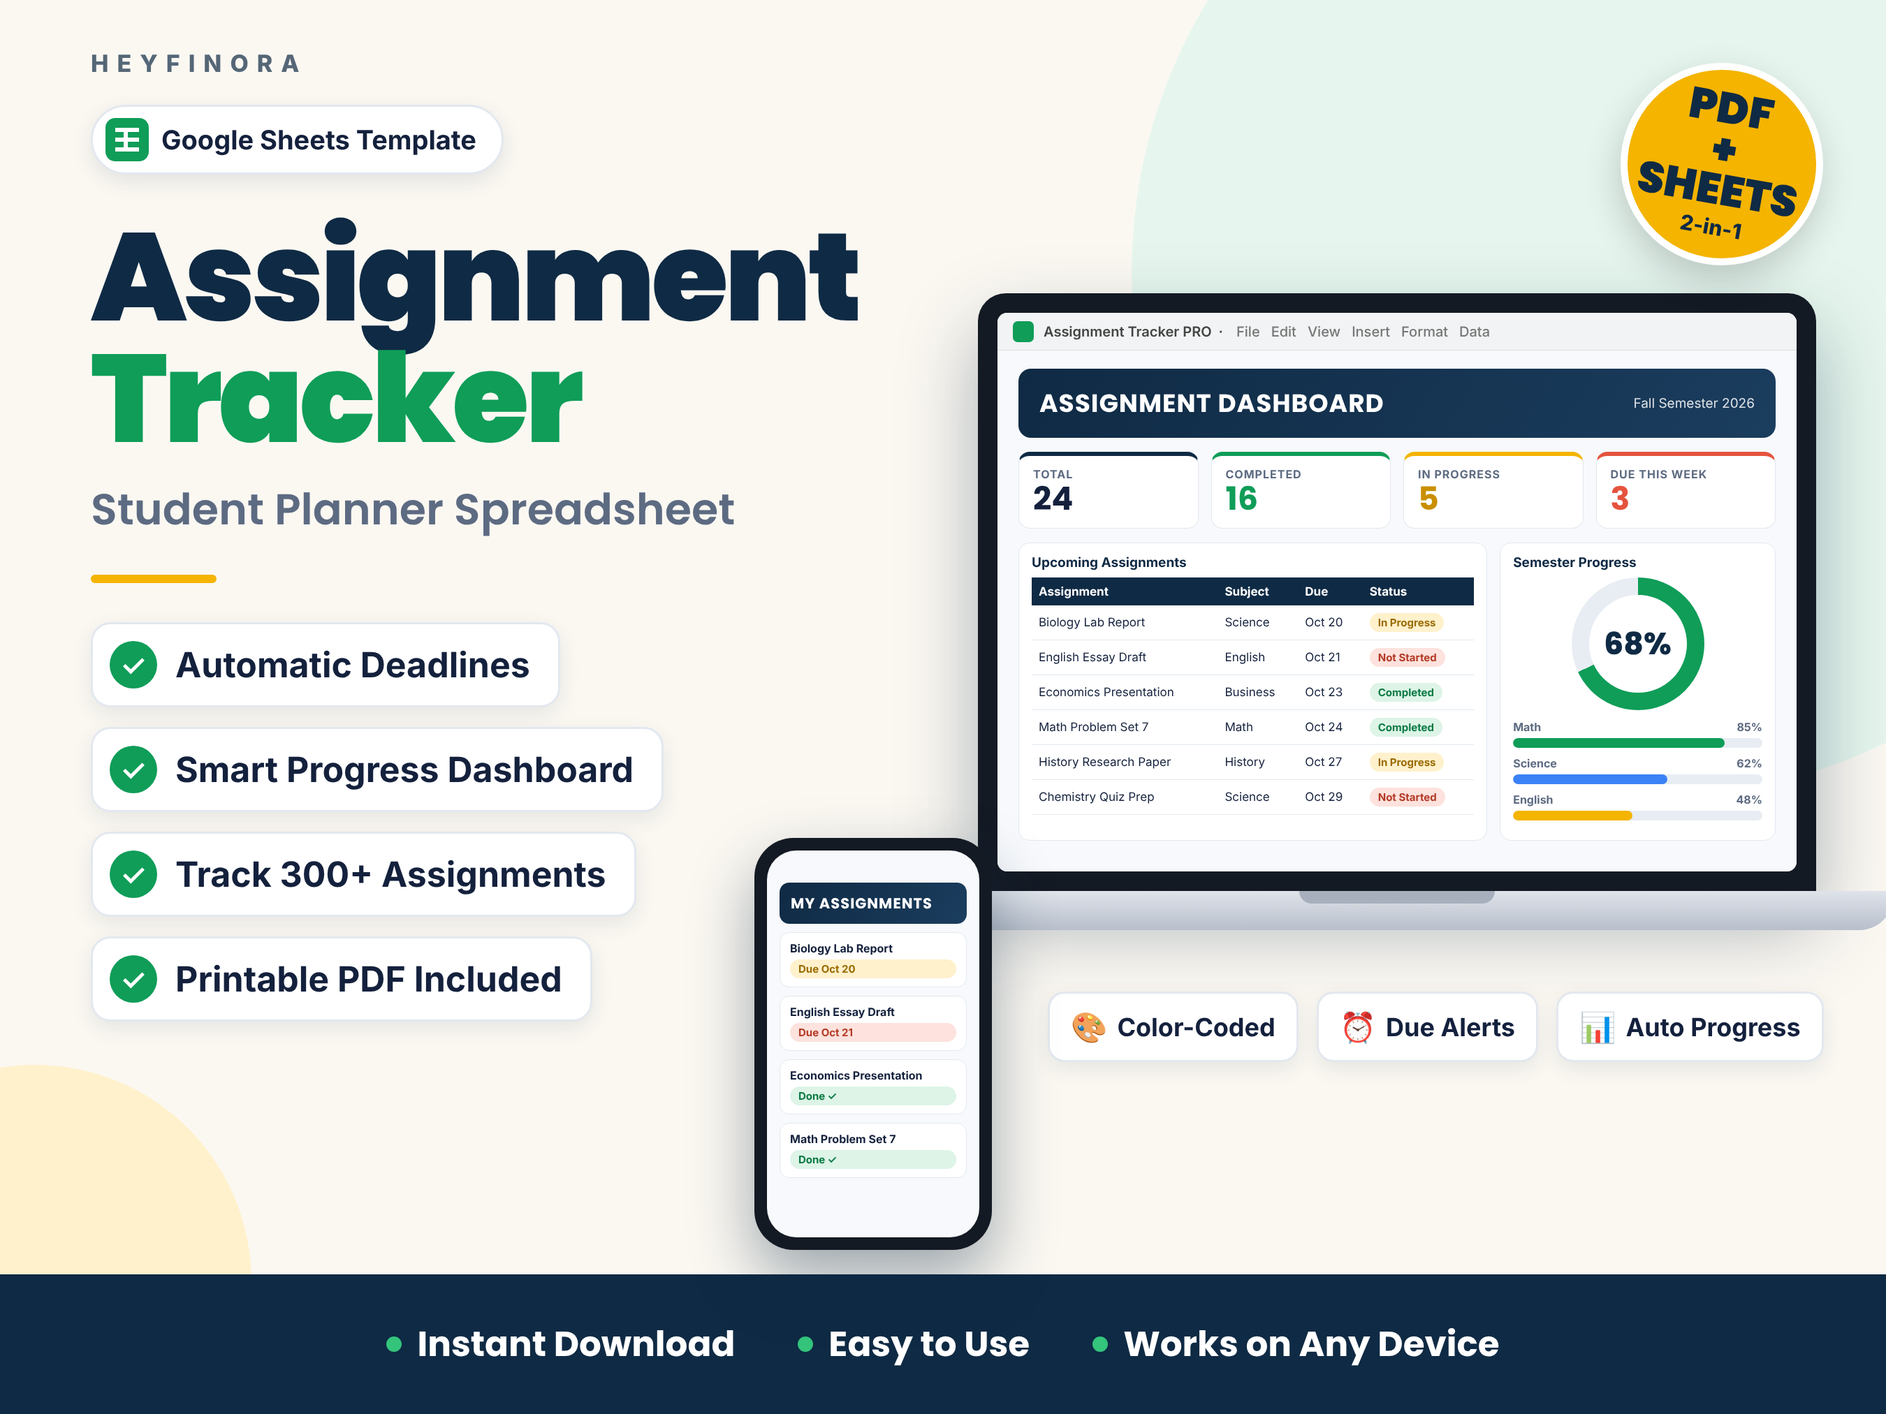
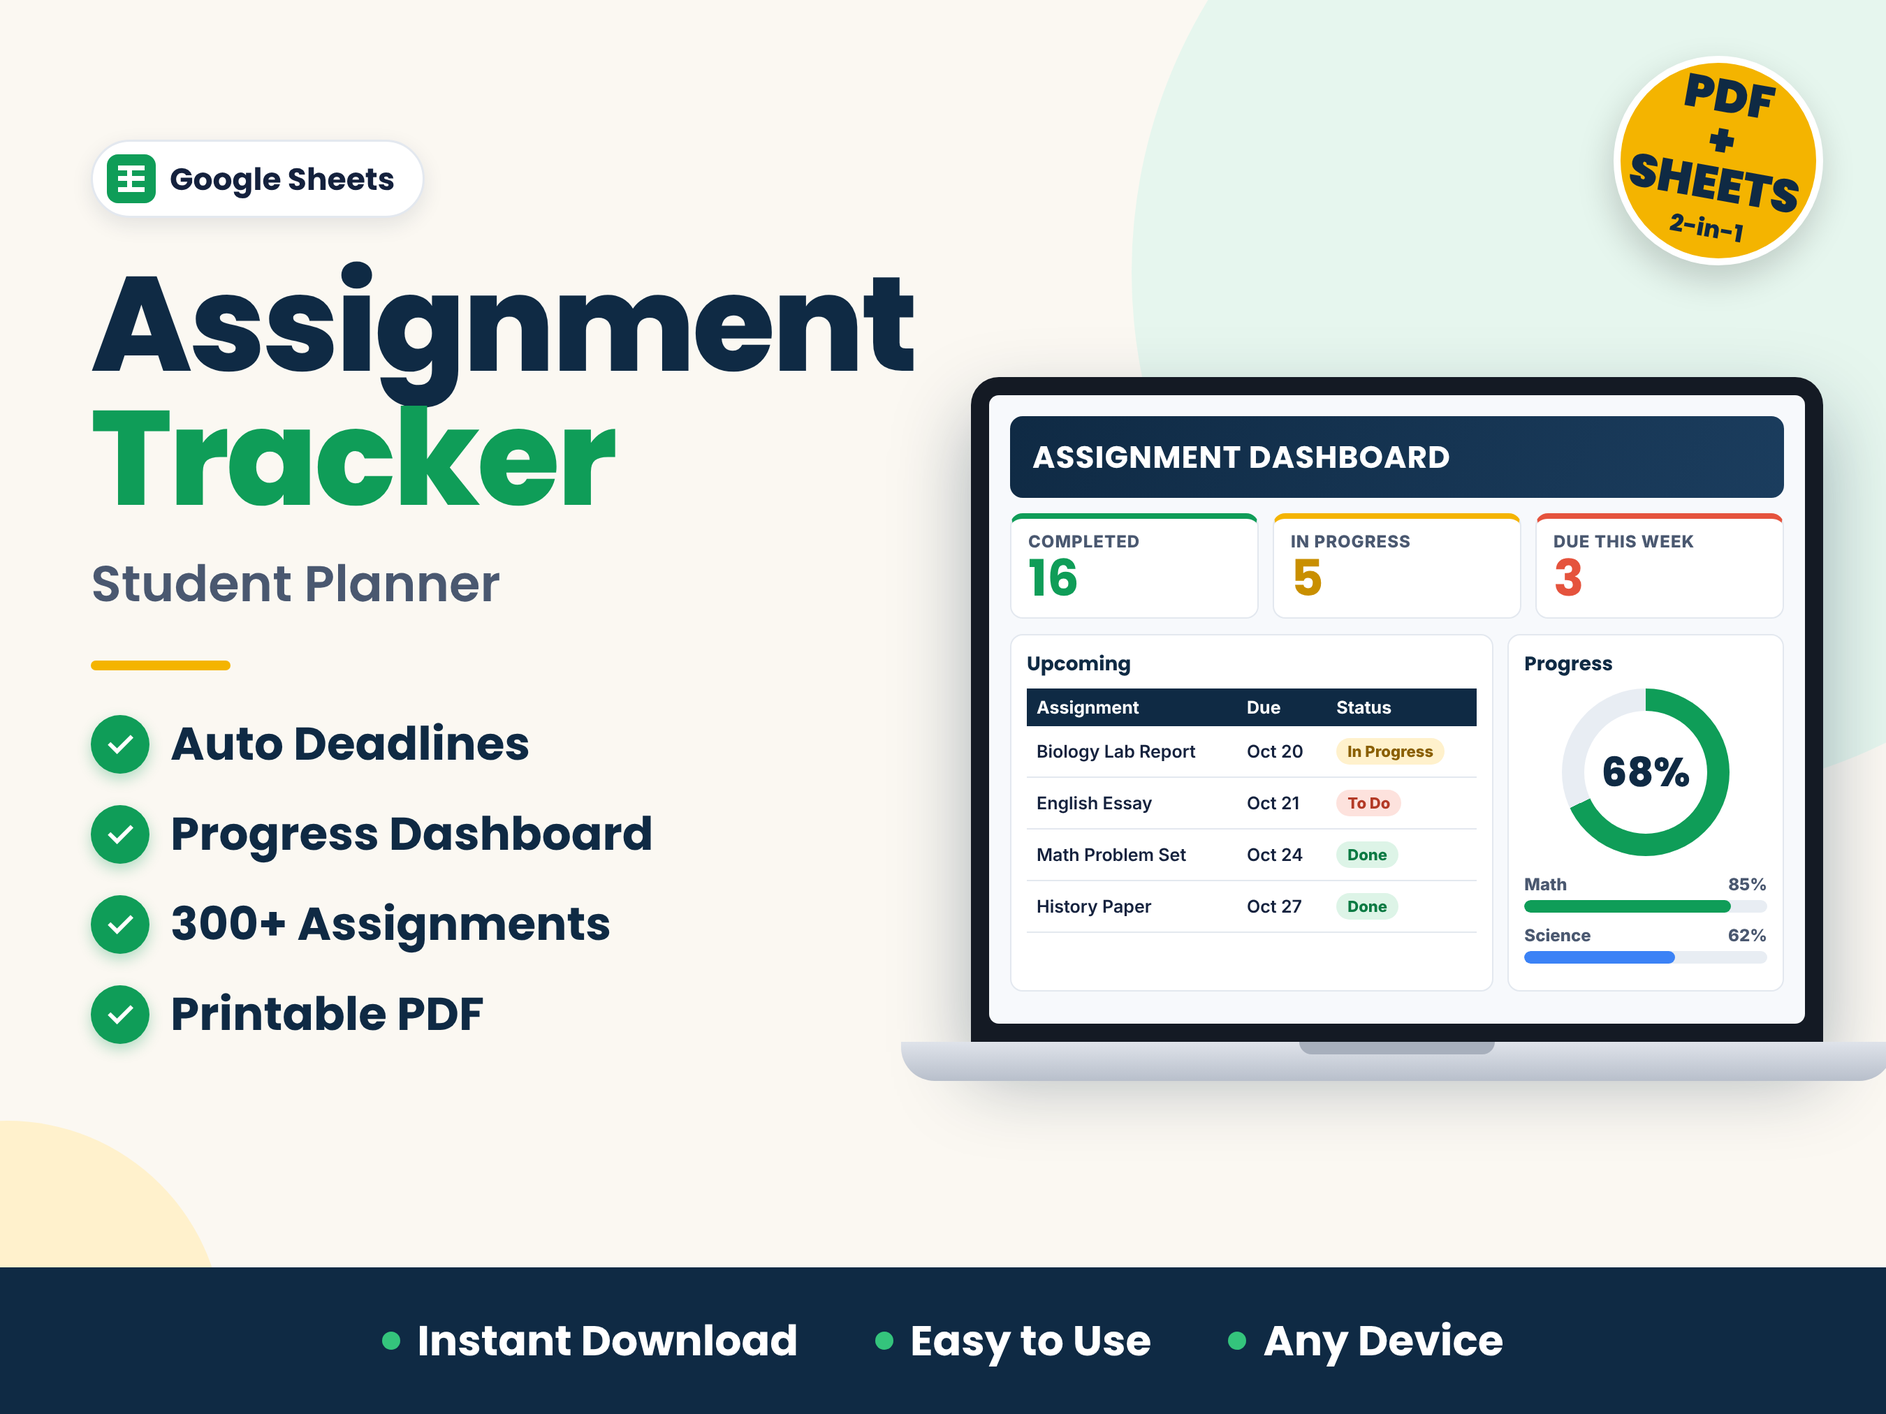
Make Assignment Tracker thumbnail text larger and cleaner
Claude-Session: https://claude.ai/code/session_01JXSyMovszCbL9FMwkaUbGU

Changed region(s): [[0.0, 0.0311, 1.0, 0.9022], [0.2178, 0.9333, 0.8089, 0.9644]]

diff --git a/images/src/assignment-tracker-thumbnail.html b/images/src/assignment-tracker-thumbnail.html
@@ -1,85 +1,67 @@
 <!doctype html>
 <html><head><meta charset="utf-8">
-<link href="https://fonts.googleapis.com/css2?family=Poppins:wght@500;600;700;800;900&family=Inter:wght@400;500;600;700;800&display=swap" rel="stylesheet">
+<link href="https://fonts.googleapis.com/css2?family=Poppins:wght@500;600;700;800;900&family=Inter:wght@500;600;700;800&display=swap" rel="stylesheet">
 <style>
-:root{--navy:#0F2A44;--navy2:#1B3D5E;--green:#0F9D58;--green2:#34C47C;--mint:#E6F6EE;--cream:#FBF8F2;--ink:#14213D;--muted:#5D6B82;--line:#E3E8EF;--gold:#F4B400;--red:#E5533D;--blue:#3B82F6}
+:root{--navy:#0F2A44;--navy2:#1B3D5E;--green:#0F9D58;--green2:#34C47C;--mint:#E6F6EE;--cream:#FBF8F2;--ink:#14213D;--muted:#4A5870;--line:#E3E8EF;--gold:#F4B400;--red:#E5533D;--blue:#3B82F6}
 *{box-sizing:border-box;margin:0;padding:0}
 body{background:#777;font-family:Inter,sans-serif;color:var(--ink)}
 #thumb{width:2700px;height:2025px;position:relative;overflow:hidden;background:var(--cream)}
-.poppins{font-family:Poppins,sans-serif}
 .blob{position:absolute;border-radius:50%}
-/* left */
-.left{position:absolute;left:130px;top:150px;width:1060px}
-.badge{display:inline-flex;align-items:center;gap:18px;background:#fff;border:3px solid var(--line);border-radius:999px;padding:16px 36px 16px 18px;font-size:38px;font-weight:700;box-shadow:0 10px 30px rgba(15,42,68,.10)}
-.sheet-ico{width:62px;height:62px;border-radius:14px;background:var(--green);position:relative}
-.sheet-ico:before{content:"";position:absolute;left:14px;top:14px;width:34px;height:34px;background:
- linear-gradient(#fff,#fff) 0 0/34px 6px no-repeat,linear-gradient(#fff,#fff) 0 14px/34px 6px no-repeat,linear-gradient(#fff,#fff) 0 28px/34px 6px no-repeat,linear-gradient(#fff,#fff) 12px 0/6px 34px no-repeat}
-h1{font-family:Poppins,sans-serif;font-weight:900;font-size:178px;line-height:.98;letter-spacing:-5px;margin-top:60px;color:var(--navy)}
+.left{position:absolute;left:130px;top:200px;width:1200px}
+.badge{display:inline-flex;align-items:center;gap:20px;background:#fff;border:3px solid var(--line);border-radius:999px;padding:18px 40px 18px 20px;font-family:Poppins;font-size:44px;font-weight:700;box-shadow:0 10px 30px rgba(15,42,68,.10)}
+.sheet-ico{width:70px;height:70px;border-radius:16px;background:var(--green);position:relative}
+.sheet-ico:before{content:"";position:absolute;left:16px;top:16px;width:38px;height:38px;background:
+ linear-gradient(#fff,#fff) 0 0/38px 7px no-repeat,linear-gradient(#fff,#fff) 0 15px/38px 7px no-repeat,linear-gradient(#fff,#fff) 0 31px/38px 7px no-repeat,linear-gradient(#fff,#fff) 13px 0/7px 38px no-repeat}
+h1{font-family:Poppins,sans-serif;font-weight:800;font-size:192px;line-height:1;letter-spacing:-4px;margin-top:56px;color:var(--navy)}
 h1 span{color:var(--green)}
-.sub{font-family:Poppins,sans-serif;font-size:62px;font-weight:600;color:var(--muted);margin-top:34px;line-height:1.2}
-.bar{width:180px;height:12px;border-radius:8px;background:var(--gold);margin:56px 0 56px}
-.feats{display:flex;flex-direction:column;gap:28px}
-.feat{display:flex;align-items:center;gap:26px;background:#fff;border-radius:28px;padding:24px 40px 24px 24px;font-size:50px;font-weight:700;box-shadow:0 10px 30px rgba(15,42,68,.09);border:3px solid var(--line);width:max-content}
-.tick{width:68px;height:68px;border-radius:50%;background:var(--green);color:#fff;display:grid;place-items:center;font-size:42px;font-weight:900;flex:none}
+.sub{font-family:Poppins,sans-serif;font-size:72px;font-weight:600;color:var(--muted);margin-top:30px}
+.bar{width:200px;height:14px;border-radius:8px;background:var(--gold);margin:56px 0}
+.feats{display:flex;flex-direction:column;gap:30px}
+.feat{display:flex;align-items:center;gap:30px;font-family:Poppins;font-size:66px;font-weight:700;color:var(--navy)}
+.tick{width:84px;height:84px;border-radius:50%;background:var(--green);color:#fff;display:grid;place-items:center;font-size:50px;font-weight:900;flex:none;box-shadow:0 8px 20px rgba(15,157,88,.3)}
 /* laptop */
-.laptop{position:absolute;left:1400px;top:420px;width:1200px}
-.screen{background:#141a24;border-radius:40px 40px 0 0;padding:28px;box-shadow:0 50px 110px rgba(15,42,68,.35)}
-.base{height:56px;background:linear-gradient(#dfe3ea,#b8bfcb);border-radius:0 0 48px 48px;margin:0 -110px;position:relative}
+.laptop{position:absolute;left:1390px;top:540px;width:1220px}
+.screen{background:#141a24;border-radius:40px 40px 0 0;padding:26px;box-shadow:0 50px 110px rgba(15,42,68,.35)}
+.base{height:56px;background:linear-gradient(#dfe3ea,#b8bfcb);border-radius:0 0 48px 48px;margin:0 -100px;position:relative}
 .base:after{content:"";position:absolute;left:50%;top:0;transform:translateX(-50%);width:280px;height:18px;background:#a7afbc;border-radius:0 0 18px 18px}
-.app{background:#fff;border-radius:14px;overflow:hidden;height:800px;display:flex;flex-direction:column}
-.tbar{height:54px;background:#F1F3F4;display:flex;align-items:center;gap:14px;padding:0 22px;font-size:20px;color:#444;font-weight:600;border-bottom:1px solid #ddd}
-.tbar .ic{width:30px;height:30px;border-radius:7px;background:var(--green)}
-.dash{flex:1;padding:26px 30px;background:#F7F9FC}
-.dh{background:linear-gradient(120deg,var(--navy),var(--navy2));color:#fff;border-radius:18px;padding:22px 30px;display:flex;justify-content:space-between;align-items:center}
-.dh b{font-family:Poppins;font-size:36px;letter-spacing:1px}
-.dh small{font-size:19px;opacity:.85}
-.stats{display:grid;grid-template-columns:repeat(4,1fr);gap:18px;margin:20px 0}
-.st{background:#fff;border-radius:16px;padding:16px 20px;border:1px solid var(--line)}
-.st p{font-size:16px;color:var(--muted);font-weight:700;letter-spacing:1px}
-.st h3{font-family:Poppins;font-size:46px;line-height:1.1}
-.row2{display:grid;grid-template-columns:1.7fr 1fr;gap:18px}
-.panel{background:#fff;border-radius:16px;border:1px solid var(--line);padding:16px 18px}
-.panel h4{font-size:19px;color:var(--navy);margin-bottom:10px}
-table{width:100%;border-collapse:collapse;font-size:17px}
-th{background:var(--navy);color:#fff;text-align:left;padding:10px 10px;font-weight:700}
-td{padding:11px 10px;border-bottom:1px solid var(--line);white-space:nowrap}
-.chip{display:inline-block;padding:4px 12px;border-radius:999px;font-weight:700;font-size:15px}
-.done{background:#DDF4E7;color:#0B7A43}.prog{background:#FFF1CC;color:#9A6B00}.todo{background:#FDE2DD;color:#B33A26}
-.pr{font-weight:800}
-.ring{width:190px;height:190px;border-radius:50%;margin:8px auto 14px;background:conic-gradient(var(--green) 0 68%,#E8EDF3 0);display:grid;place-items:center}
-.ring div{width:140px;height:140px;border-radius:50%;background:#fff;display:grid;place-items:center;font-family:Poppins;font-weight:800;font-size:44px;color:var(--navy)}
-.pb{height:14px;border-radius:8px;background:#E8EDF3;margin:6px 0 12px;overflow:hidden}.pb i{display:block;height:100%;border-radius:8px}
-.lg{font-size:16px;font-weight:700;color:var(--muted);display:flex;justify-content:space-between}
-/* phone */
-.phone{position:absolute;left:1080px;top:1200px;width:340px;height:590px;z-index:3;background:#141a24;border-radius:56px;padding:18px;box-shadow:0 40px 90px rgba(15,42,68,.40)}
-.pscr{background:#F7F9FC;border-radius:42px;height:100%;overflow:hidden;padding:46px 18px 18px}
-.pscr .dh{padding:14px 16px;border-radius:14px}.pscr .dh b{font-size:21px}
-.pi{background:#fff;border:1px solid var(--line);border-radius:14px;padding:12px 14px;margin-top:12px;font-size:16px;font-weight:700}
-.pi span{display:block;margin-top:6px}
-/* pdf sticker */
-.sticker{z-index:5;position:absolute;right:90px;top:90px;width:290px;height:290px;border-radius:50%;background:var(--gold);color:var(--navy);display:grid;place-items:center;text-align:center;transform:rotate(10deg);box-shadow:0 20px 50px rgba(0,0,0,.18);border:10px solid #fff}
-.sticker b{font-family:Poppins;font-size:62px;line-height:.95;font-weight:900}.sticker small{font-size:30px;font-weight:800;display:block;margin-top:6px}
-/* bottom strip */
-.strip{position:absolute;left:0;right:0;bottom:0;height:200px;background:var(--navy);display:flex;align-items:center;justify-content:center;gap:90px;color:#fff;font-size:50px;font-weight:700;font-family:Poppins}
-.strip span{display:flex;align-items:center;gap:22px}.strip i{width:22px;height:22px;border-radius:50%;background:var(--green2);display:inline-block}
-.brand{position:absolute;left:130px;top:70px;font-weight:800;letter-spacing:12px;font-size:34px;color:var(--navy);opacity:.7}
-.minis{position:absolute;left:1500px;top:1420px;display:flex;gap:26px}.mini{background:#fff;border:3px solid var(--line);border-radius:24px;padding:22px 30px;font-size:36px;font-weight:700;box-shadow:0 10px 30px rgba(15,42,68,.09);display:flex;align-items:center;gap:14px}.mini em{font-style:normal;font-size:42px}
+.app{background:#F7F9FC;border-radius:14px;overflow:hidden;height:900px;padding:30px}
+.dh{background:linear-gradient(120deg,var(--navy),var(--navy2));color:#fff;border-radius:18px;padding:26px 32px;font-family:Poppins;font-size:44px;font-weight:700;letter-spacing:1px}
+.stats{display:grid;grid-template-columns:repeat(3,1fr);gap:20px;margin:22px 0}
+.st{background:#fff;border-radius:18px;padding:18px 24px;border:2px solid var(--line)}
+.st p{font-size:24px;color:var(--muted);font-weight:800;letter-spacing:1px}
+.st h3{font-family:Poppins;font-size:72px;line-height:1.05}
+.row2{display:grid;grid-template-columns:1.75fr 1fr;gap:20px}
+.panel{background:#fff;border-radius:18px;border:2px solid var(--line);padding:20px 22px}
+.panel h4{font-family:Poppins;font-size:28px;color:var(--navy);margin-bottom:14px}
+table{width:100%;border-collapse:collapse;font-size:25px}
+th{background:var(--navy);color:#fff;text-align:left;padding:12px 14px;font-weight:700}
+td{padding:17px 14px;border-bottom:2px solid var(--line);white-space:nowrap;font-weight:600}
+.chip{display:inline-block;padding:6px 16px;border-radius:999px;font-weight:800;font-size:22px}
+.done{background:#DDF4E7;color:#0B7A43}.prog{background:#FFF1CC;color:#8A5F00}.todo{background:#FDE2DD;color:#B33A26}
+.ring{width:240px;height:240px;border-radius:50%;margin:10px auto 26px;background:conic-gradient(var(--green) 0 68%,#E8EDF3 0);display:grid;place-items:center}
+.ring div{width:176px;height:176px;border-radius:50%;background:#fff;display:grid;place-items:center;font-family:Poppins;font-weight:800;font-size:58px;color:var(--navy)}
+.lg{font-size:24px;font-weight:800;color:var(--muted);display:flex;justify-content:space-between}
+.pb{height:18px;border-radius:10px;background:#E8EDF3;margin:8px 0 18px;overflow:hidden}.pb i{display:block;height:100%;border-radius:10px}
+/* sticker */
+.sticker{z-index:5;position:absolute;right:90px;top:80px;width:300px;height:300px;border-radius:50%;background:var(--gold);color:var(--navy);display:grid;place-items:center;text-align:center;transform:rotate(10deg);box-shadow:0 20px 50px rgba(0,0,0,.18);border:10px solid #fff}
+.sticker b{font-family:Poppins;font-size:66px;line-height:.95;font-weight:900}.sticker small{font-family:Poppins;font-size:34px;font-weight:800;display:block;margin-top:8px}
+.strip{position:absolute;left:0;right:0;bottom:0;height:210px;background:var(--navy);display:flex;align-items:center;justify-content:center;gap:110px;color:#fff;font-size:60px;font-weight:700;font-family:Poppins}
+.strip span{display:flex;align-items:center;gap:24px}.strip i{width:26px;height:26px;border-radius:50%;background:var(--green2);display:inline-block}
 </style></head><body>
 <div id="thumb">
   <div class="blob" style="width:1500px;height:1500px;background:var(--mint);right:-420px;top:-360px"></div>
-  <div class="blob" style="width:620px;height:620px;background:#FFF1CC;left:-260px;bottom:-120px"></div>
-  <div class="brand">HEYFINORA</div>
+  <div class="blob" style="width:620px;height:620px;background:#FFF1CC;left:-300px;bottom:-200px"></div>
 
   <div class="left">
-    <div class="badge"><div class="sheet-ico"></div>Google Sheets Template</div>
+    <div class="badge"><div class="sheet-ico"></div>Google Sheets</div>
     <h1>Assignment<br><span>Tracker</span></h1>
-    <div class="sub">Student Planner Spreadsheet</div>
+    <div class="sub">Student Planner</div>
     <div class="bar"></div>
     <div class="feats">
-      <div class="feat"><div class="tick">✓</div>Automatic Deadlines</div>
-      <div class="feat"><div class="tick">✓</div>Smart Progress Dashboard</div>
-      <div class="feat"><div class="tick">✓</div>Track 300+ Assignments</div>
-      <div class="feat"><div class="tick">✓</div>Printable PDF Included</div>
+      <div class="feat"><div class="tick">✓</div>Auto Deadlines</div>
+      <div class="feat"><div class="tick">✓</div>Progress Dashboard</div>
+      <div class="feat"><div class="tick">✓</div>300+ Assignments</div>
+      <div class="feat"><div class="tick">✓</div>Printable PDF</div>
     </div>
   </div>
 
@@ -87,53 +69,36 @@ td{padding:11px 10px;border-bottom:1px solid var(--line);white-space:nowrap}
 
   <div class="laptop">
     <div class="screen"><div class="app">
-      <div class="tbar"><div class="ic"></div>Assignment Tracker PRO &nbsp;·&nbsp; <span style="font-weight:500;color:#777">File &nbsp; Edit &nbsp; View &nbsp; Insert &nbsp; Format &nbsp; Data</span></div>
-      <div class="dash">
-        <div class="dh"><b>ASSIGNMENT DASHBOARD</b><small>Fall Semester 2026</small></div>
-        <div class="stats">
-          <div class="st" style="border-top:6px solid var(--navy)"><p>TOTAL</p><h3>24</h3></div>
-          <div class="st" style="border-top:6px solid var(--green)"><p>COMPLETED</p><h3 style="color:var(--green)">16</h3></div>
-          <div class="st" style="border-top:6px solid var(--gold)"><p>IN PROGRESS</p><h3 style="color:#C98F00">5</h3></div>
-          <div class="st" style="border-top:6px solid var(--red)"><p>DUE THIS WEEK</p><h3 style="color:var(--red)">3</h3></div>
+      <div class="dh">ASSIGNMENT DASHBOARD</div>
+      <div class="stats">
+        <div class="st" style="border-top:8px solid var(--green)"><p>COMPLETED</p><h3 style="color:var(--green)">16</h3></div>
+        <div class="st" style="border-top:8px solid var(--gold)"><p>IN PROGRESS</p><h3 style="color:#C98F00">5</h3></div>
+        <div class="st" style="border-top:8px solid var(--red)"><p>DUE THIS WEEK</p><h3 style="color:var(--red)">3</h3></div>
+      </div>
+      <div class="row2">
+        <div class="panel"><h4>Upcoming</h4>
+          <table>
+            <tr><th>Assignment</th><th>Due</th><th>Status</th></tr>
+            <tr><td>Biology Lab Report</td><td>Oct 20</td><td><span class="chip prog">In Progress</span></td></tr>
+            <tr><td>English Essay</td><td>Oct 21</td><td><span class="chip todo">To Do</span></td></tr>
+            <tr><td>Math Problem Set</td><td>Oct 24</td><td><span class="chip done">Done</span></td></tr>
+            <tr><td>History Paper</td><td>Oct 27</td><td><span class="chip done">Done</span></td></tr>
+          </table>
         </div>
-        <div class="row2">
-          <div class="panel"><h4>Upcoming Assignments</h4>
-            <table>
-              <tr><th>Assignment</th><th>Subject</th><th>Due</th><th>Status</th></tr>
-              <tr><td>Biology Lab Report</td><td>Science</td><td>Oct 20</td><td><span class="chip prog">In Progress</span></td></tr>
-              <tr><td>English Essay Draft</td><td>English</td><td>Oct 21</td><td><span class="chip todo">Not Started</span></td></tr>
-              <tr><td>Economics Presentation</td><td>Business</td><td>Oct 23</td><td><span class="chip done">Completed</span></td></tr>
-              <tr><td>Math Problem Set 7</td><td>Math</td><td>Oct 24</td><td><span class="chip done">Completed</span></td></tr>
-              <tr><td>History Research Paper</td><td>History</td><td>Oct 27</td><td><span class="chip prog">In Progress</span></td></tr>
-              <tr><td>Chemistry Quiz Prep</td><td>Science</td><td>Oct 29</td><td><span class="chip todo">Not Started</span></td></tr>
-            </table>
-          </div>
-          <div class="panel"><h4>Semester Progress</h4>
-            <div class="ring"><div>68%</div></div>
-            <div class="lg"><span>Math</span><span>85%</span></div><div class="pb"><i style="width:85%;background:var(--green)"></i></div>
-            <div class="lg"><span>Science</span><span>62%</span></div><div class="pb"><i style="width:62%;background:var(--blue)"></i></div>
-            <div class="lg"><span>English</span><span>48%</span></div><div class="pb"><i style="width:48%;background:var(--gold)"></i></div>
-          </div>
+        <div class="panel"><h4>Progress</h4>
+          <div class="ring"><div>68%</div></div>
+          <div class="lg"><span>Math</span><span>85%</span></div><div class="pb"><i style="width:85%;background:var(--green)"></i></div>
+          <div class="lg"><span>Science</span><span>62%</span></div><div class="pb"><i style="width:62%;background:var(--blue)"></i></div>
         </div>
       </div>
     </div></div>
     <div class="base"></div>
   </div>
 
-  <div class="phone"><div class="pscr">
-    <div class="dh"><b>MY ASSIGNMENTS</b></div>
-    <div class="pi">Biology Lab Report<span class="chip prog">Due Oct 20</span></div>
-    <div class="pi">English Essay Draft<span class="chip todo">Due Oct 21</span></div>
-    <div class="pi">Economics Presentation<span class="chip done">Done ✓</span></div>
-    <div class="pi">Math Problem Set 7<span class="chip done">Done ✓</span></div>
-    
-  </div></div>
-
-  <div class="minis"><div class="mini"><em>🎨</em>Color-Coded</div><div class="mini"><em>⏰</em>Due Alerts</div><div class="mini"><em>📊</em>Auto Progress</div></div>
   <div class="strip">
     <span><i></i>Instant Download</span>
     <span><i></i>Easy to Use</span>
-    <span><i></i>Works on Any Device</span>
+    <span><i></i>Any Device</span>
   </div>
 </div>
 </body></html>
